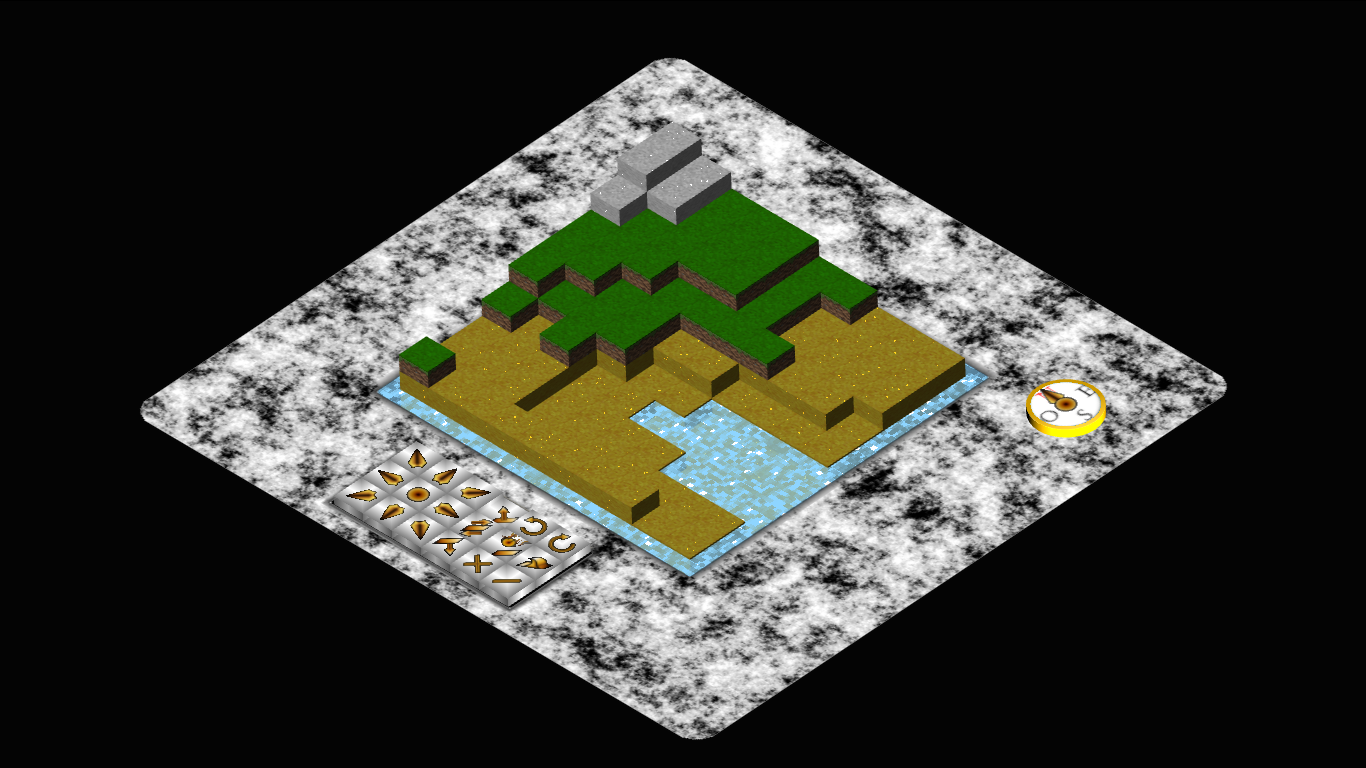
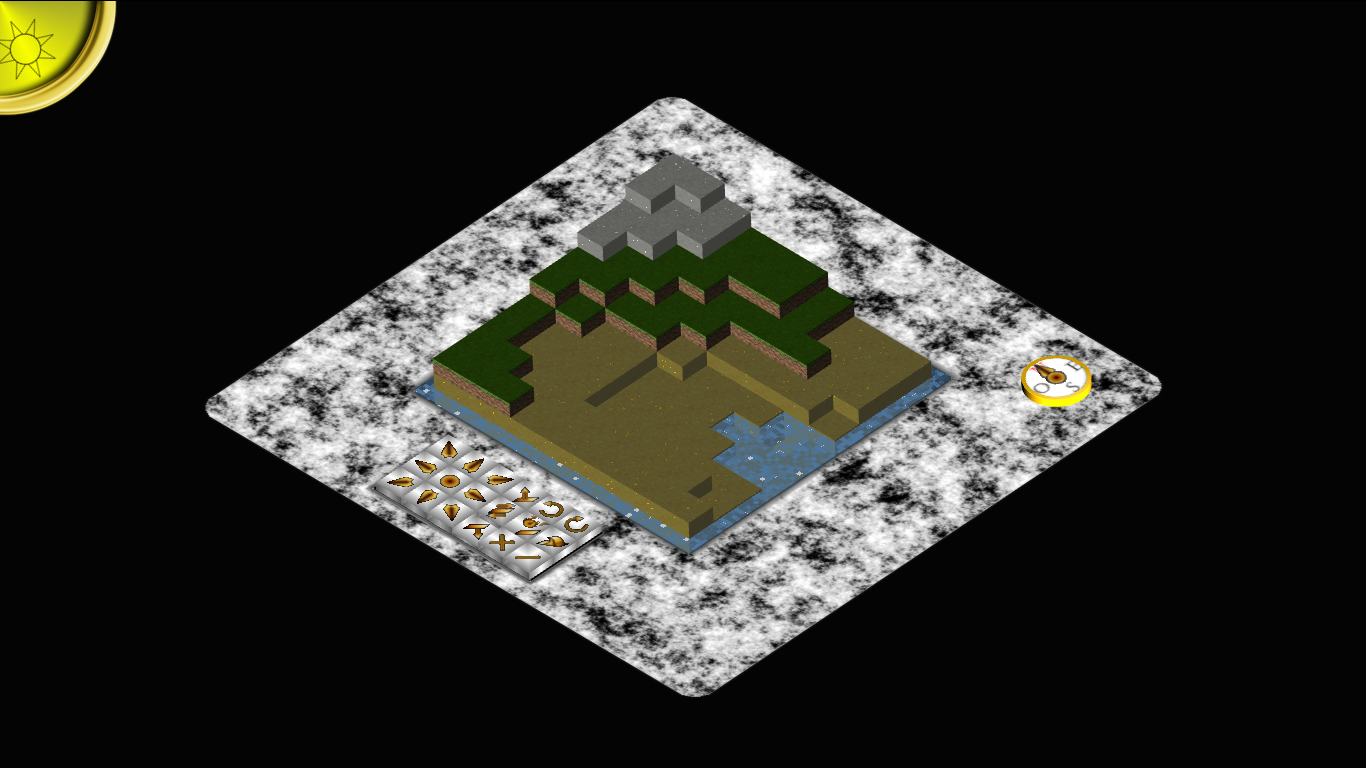
Add files via upload

diff --git a/index.php b/index.php
@@ -215,10 +215,10 @@
 				
 				
 				if(randV.x>0.95 && rand.x>0.9 && shade_factor>0.4)
-					gl_FragColor = 1.15*shade_factor*vec4(1.0,0.75,0.1,1.0)*max(0.85,(sin(delta)+0.5));
+					gl_FragColor = 1.3*shade_factor*vec4(1.0,0.75,0.1,1.0)*max(0.85,(sin(delta)+0.5));
 				else{
 					gl_FragColor = color;
-					gl_FragColor = (gl_FragColor+vec4(light/1.5, 1.0))/2.;
+					gl_FragColor = vec4(color.r*light.r+color.r/4., color.g*light.g+color.g/4., color.b*light.b +color.b/4.,1.0);
 				}
 			}
 			

diff --git a/DocLavoro.md b/DocLavoro.md
@@ -45,7 +45,13 @@
 		Aggiunta scambio giorno notte un po netto
 		aggiunto orologio in alto a sinistra
 		correzione bug di shader
-		
+	
+	* 5/10/19
+		bug direzione sfalsata
+		implementato effetto esplosione con fragment e vertex, e oggetto esplosione
+		meteoraAction(positione) : crea anche l'intervallo per gestire l'animazione delle esplosioni
+		implementato shader meteora
+		correzione colori
 	
 	
 		

diff --git a/README.md b/README.md
@@ -145,6 +145,7 @@ sulla destra una bussola che indica la posizione, il tutto su un tavolo al cui c
 	* implementato effetto esplosione con fragment e vertex, e oggetto esplosione
 		* meteoraAction(positione) : crea anche l'intervallo per gestire l'animazione delle esplosioni
 	* implementato shader meteora
+	* correzione colori
 	
 #### Programmi usati
 
